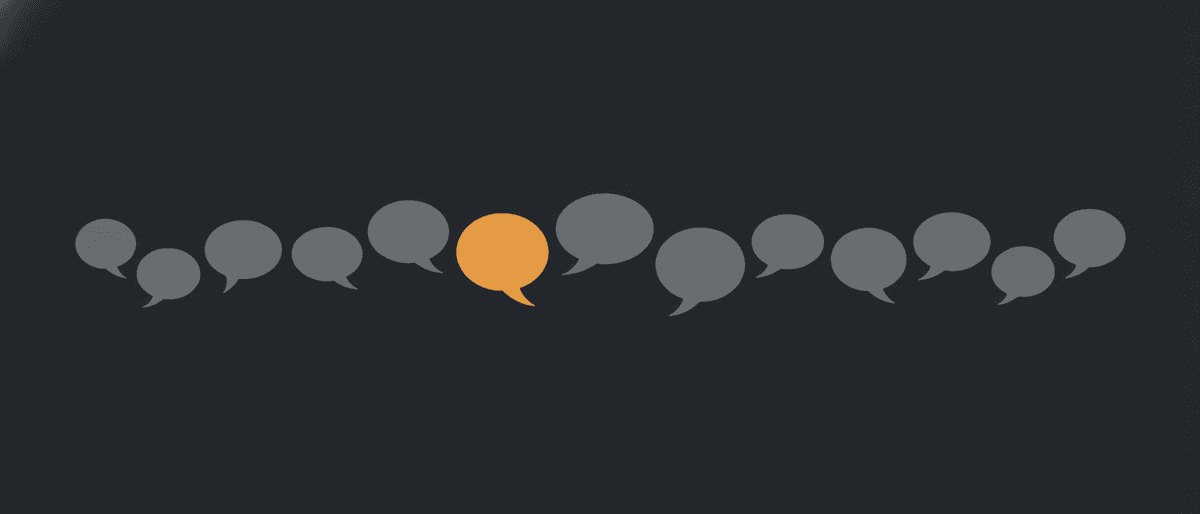
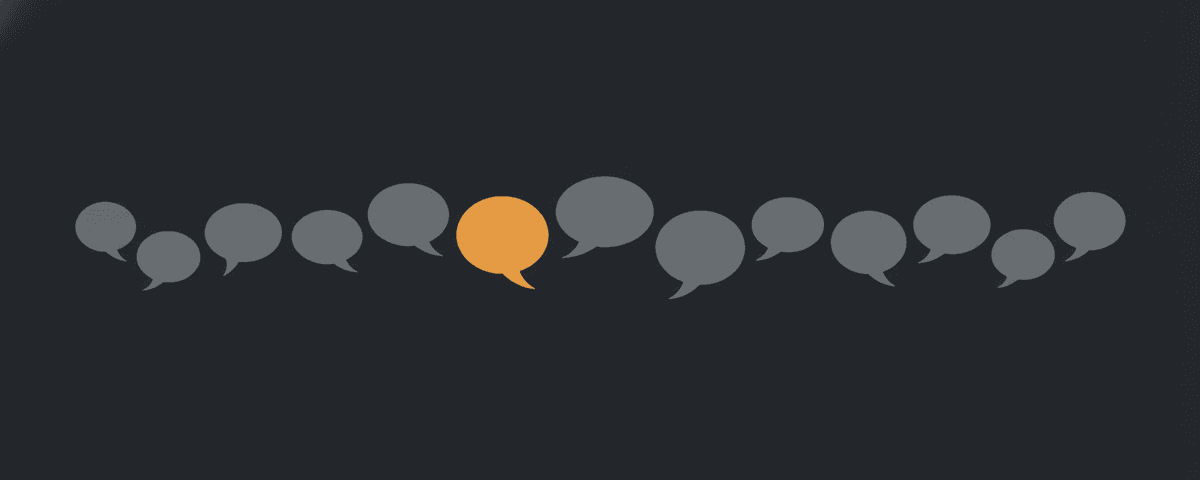
fix(whats-new): header art at 5:2, not 21:9
Sam's call. Re-cropped the six PNGs 1200x514 -> 1200x480 (cover, 34px of height
off) and moved the img class to aspect-[5/2] in the same change, so the box and
the file agree and nothing letterboxes. Verified in the browser: natural
1200x480, rendered ratio exactly 2.500.

Claude-Session: https://claude.ai/code/session_01XmuFkH67ZJnGzjH1yeEpDD

diff --git a/packages/web/src/components/ReleaseBody.tsx b/packages/web/src/components/ReleaseBody.tsx
@@ -20,7 +20,7 @@ export function ReleaseImage({ src, className }: { src: string; className?: stri
       src={`/whats-new/${src}`}
       alt=""
       loading="lazy"
-      className={cn('mb-3 aspect-[21/9] w-full rounded-md border border-border/60 object-cover', className)}
+      className={cn('mb-3 aspect-[5/2] w-full rounded-md border border-border/60 object-cover', className)}
     />
   )
 }
